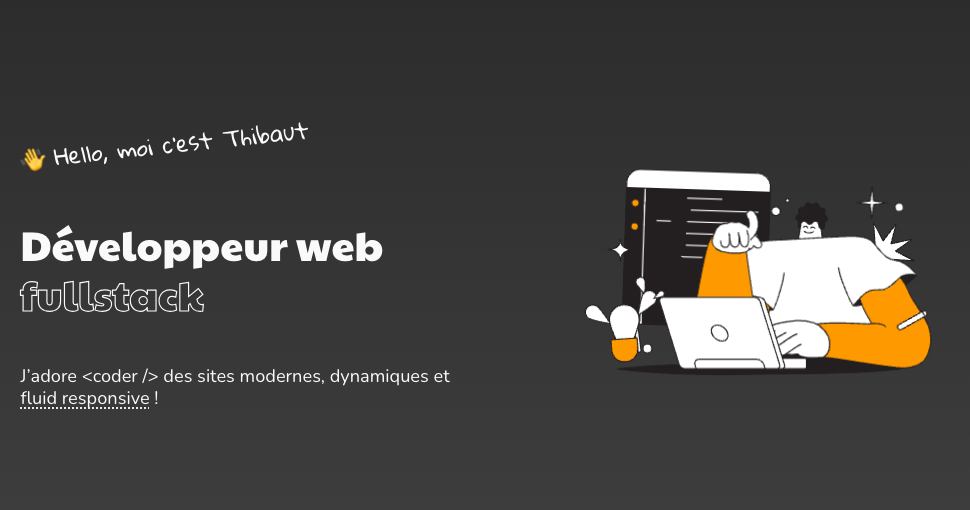
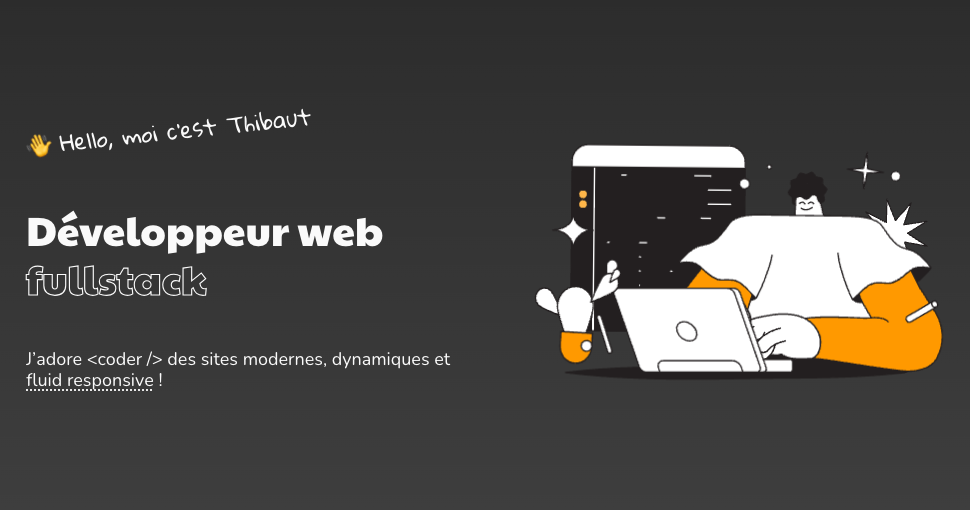
Updated opengraph and twitter image + fix in a comment in getCurrentAge() fuction + packages updated in previous commit

diff --git a/src/lib/utils.js b/src/lib/utils.js
@@ -6,19 +6,19 @@ export function cn(...inputs) {
 }
 
 export function getCurrentAge() {
-    const dateToday = new Date()
-    const dateOfBirth = new Date(Date.UTC(1989, 5, 21, 22, 0, 0))
-    // 5 et pas 6 pour Juin car c'est le monthIndex (Janvier = 0) Ici c'est le 21/06/1989 à 22h00 UTC soit le 22/06/1989 à 0h00 GMT+2
-    let age = dateToday.getFullYear() - dateOfBirth.getFullYear()
-    const monthDiff = dateToday.getMonth() - dateOfBirth.getMonth()
+  const dateToday = new Date()
+  const dateOfBirth = new Date(Date.UTC(1989, 5, 21, 22, 0, 0))
+  // 5 et pas 6 pour Juin car c'est le monthIndex (Janvier = 0) Ici c'est le 21/06/1989 à 22h00 UTC soit le 22/06/1989 à 0h00 UTC+2
+  let age = dateToday.getFullYear() - dateOfBirth.getFullYear()
+  const monthDiff = dateToday.getMonth() - dateOfBirth.getMonth()
 
-    if (monthDiff < 0) {
-      age--
-    } else if (monthDiff === 0 && dateToday.getDate() < dateOfBirth.getDate()) {
-      age--
-    }
+  if (monthDiff < 0) {
+    age--
+  } else if (monthDiff === 0 && dateToday.getDate() < dateOfBirth.getDate()) {
+    age--
+  }
 
-    return age
+  return age
 }
 
 export function getCurrentYear() {
